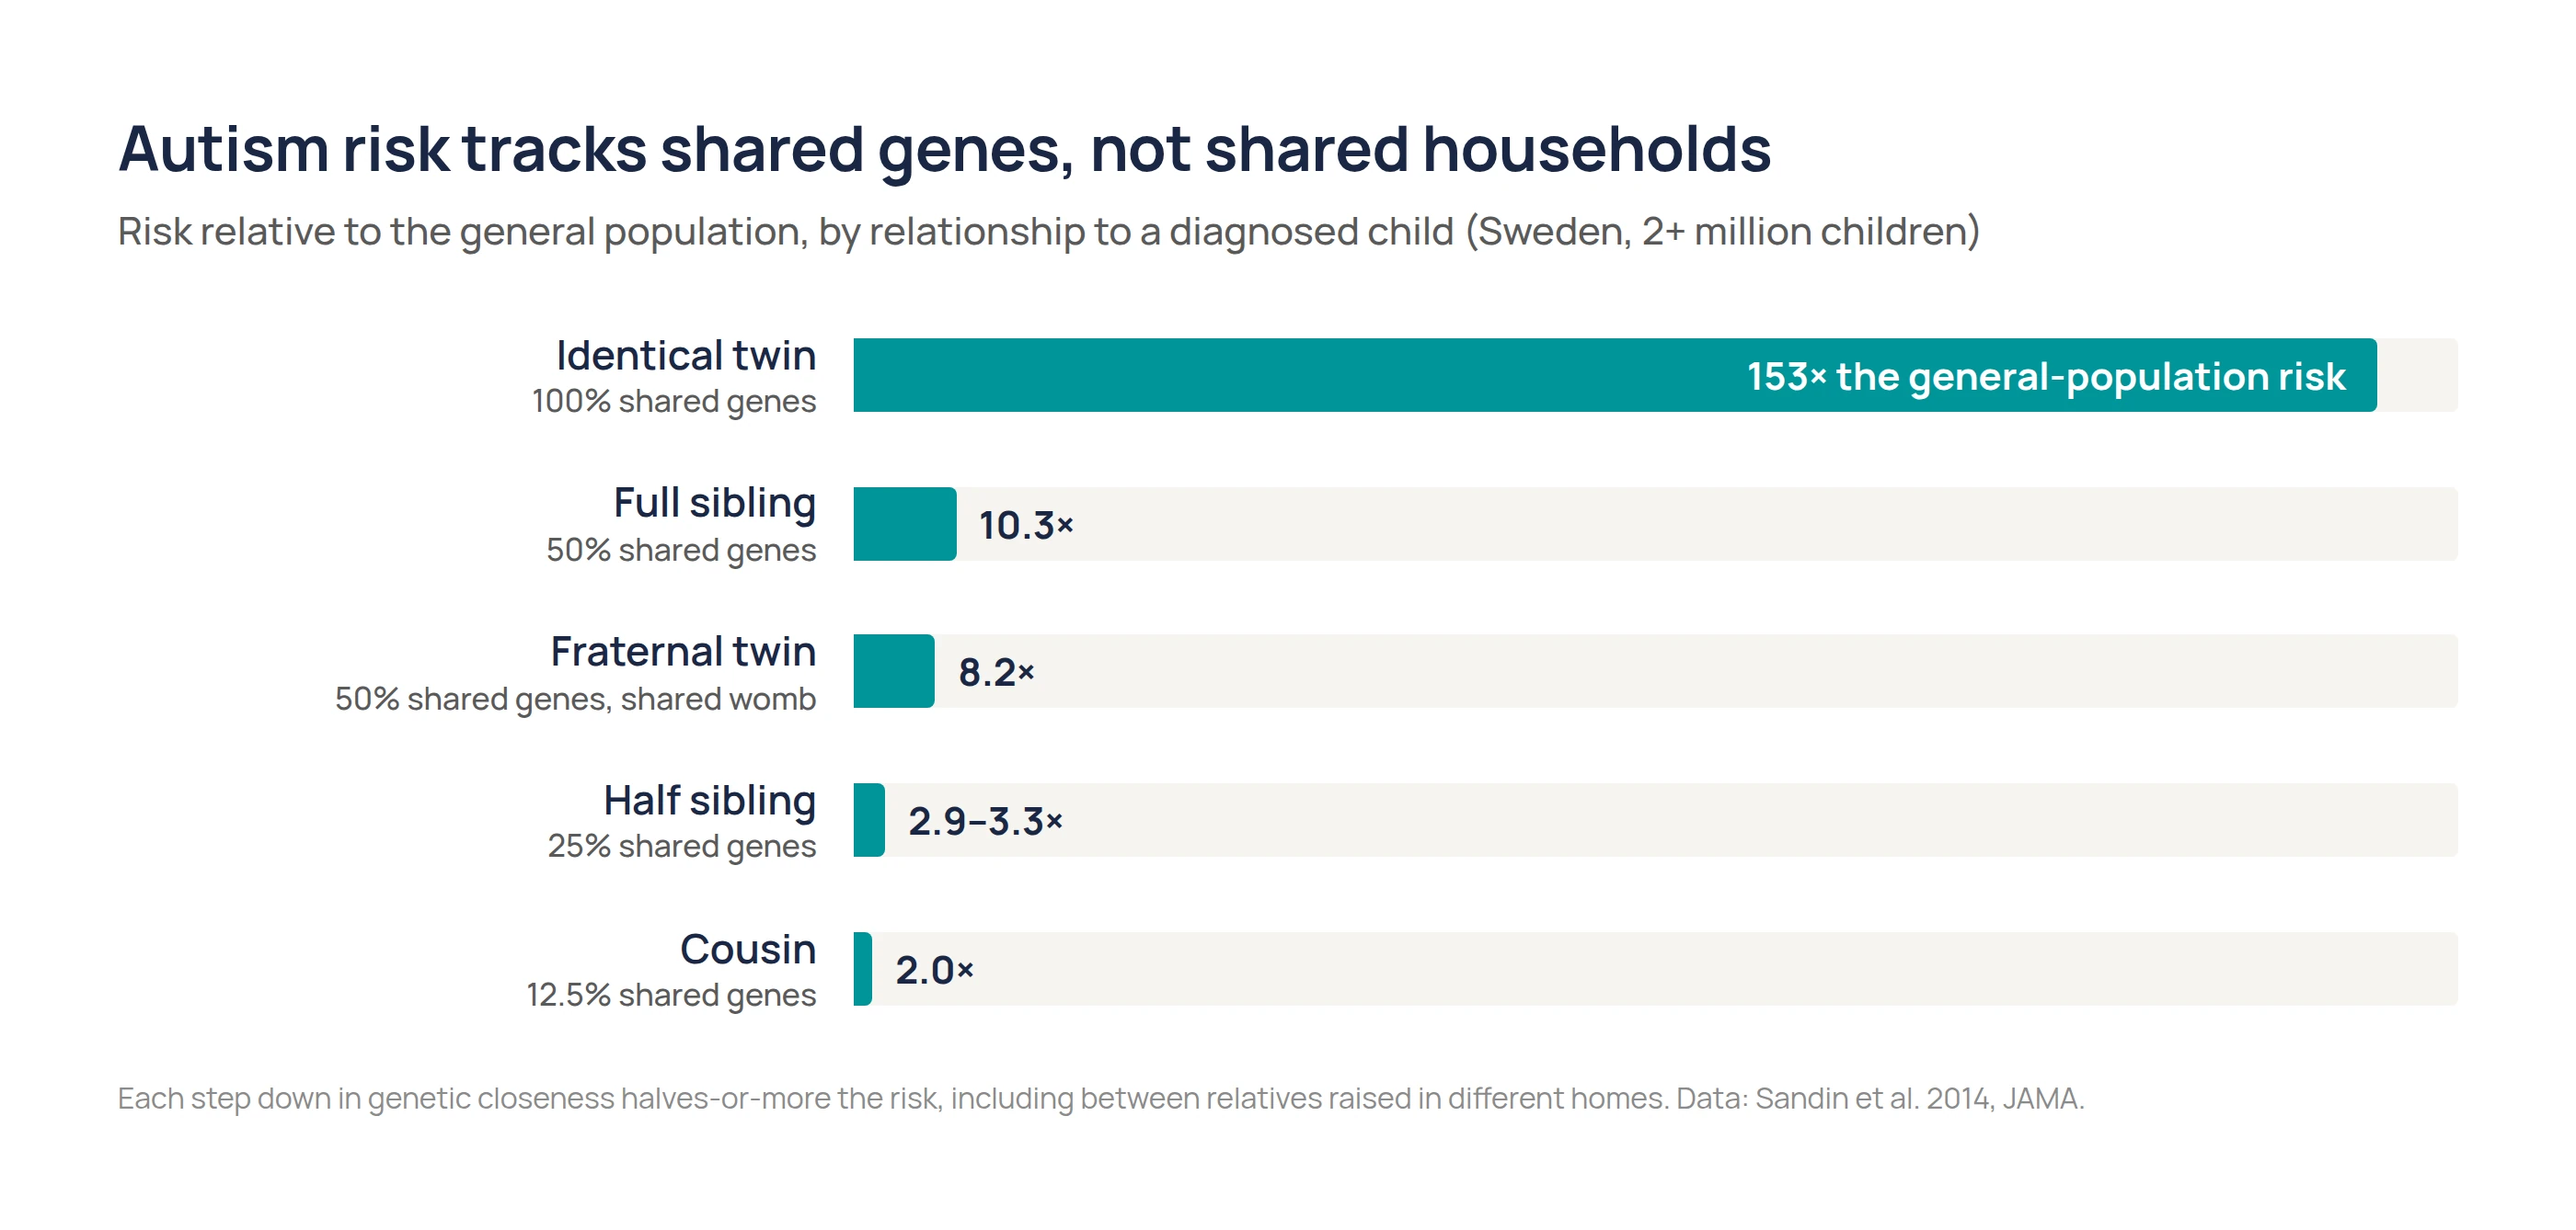
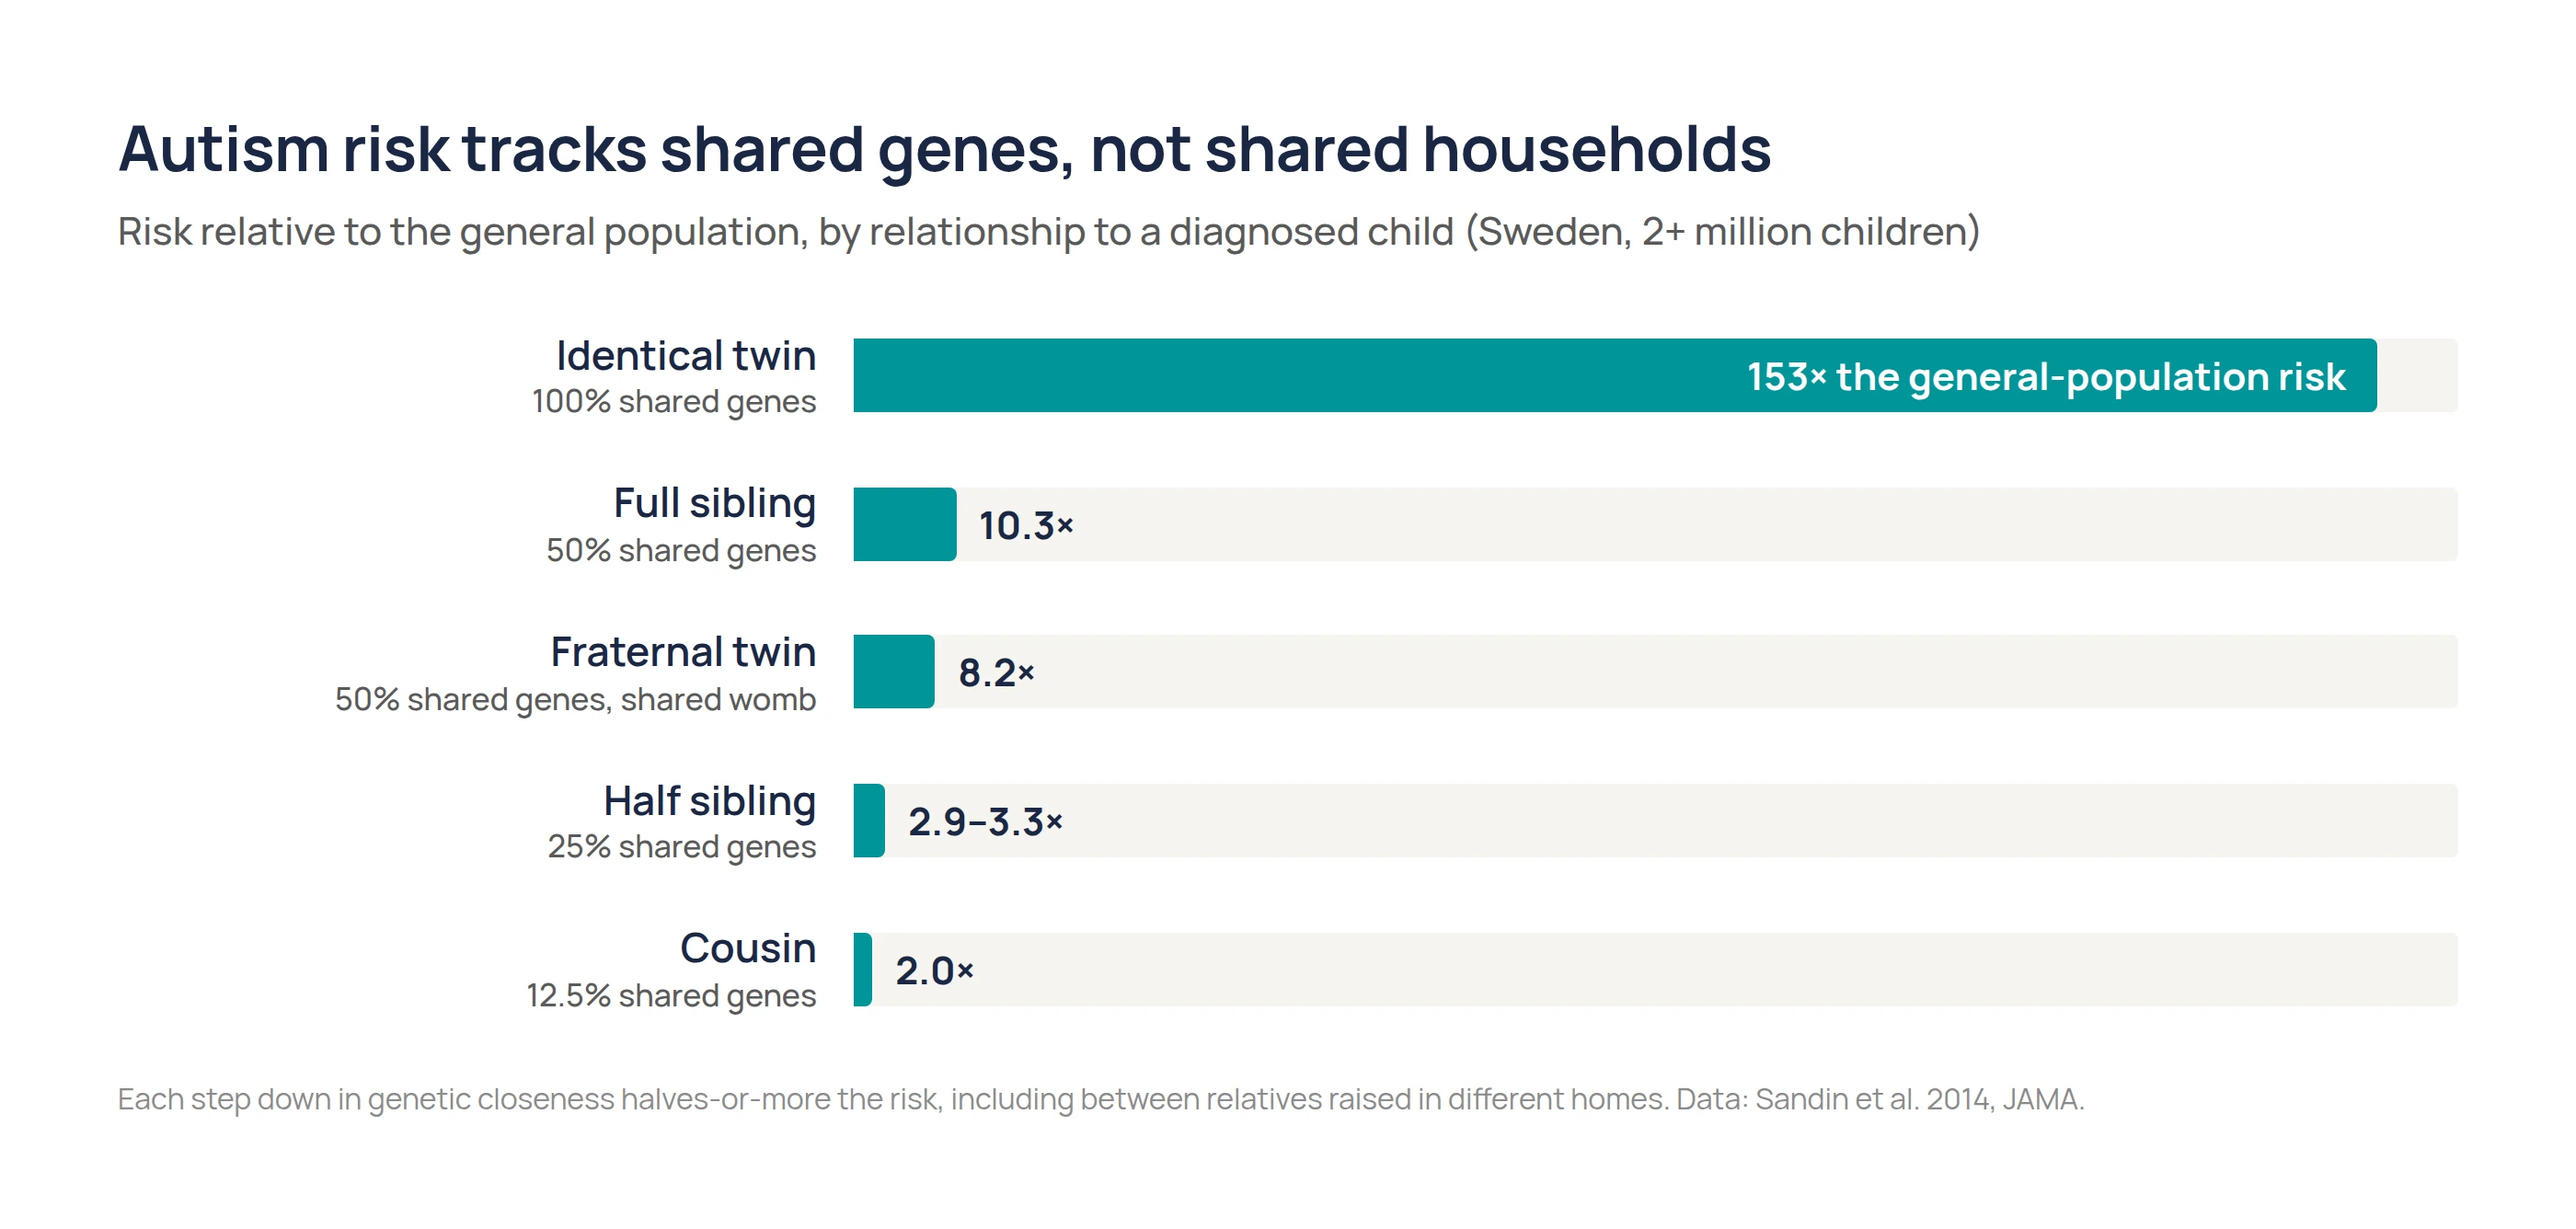
Ship the emotional-neglect rewrite with amended charts; bank final chart sources
Amend fig1 (third ~2-9% row + sums-to-100% note) and fig2 (fraternal label),
re-render the three webps, and record the production ship: assets uploaded and
byte-verified, article body rewritten with Tick 2016 and Sandin 2014 citations
and the three figures, item published, 18/18 live checks pass. Fixes the
Sandin PMID misattribution in the charts README.

Claude-Session: https://claude.ai/code/session_01ESdSdoUivG7GAzDwAHmNhg

diff --git a/content/blog/rewrites/charts/heritability-charts.html b/content/blog/rewrites/charts/heritability-charts.html
@@ -24,15 +24,18 @@
   <h2>What explains autism risk in twin studies</h2>
   <p class="sub">Range of estimates across six meta-analytic models of 13 twin studies (7,000+ pairs)</p>
   <div class="keyrow"><span><span class="sw" style="background:#009499"></span>Genetics</span>
-  <span><span class="sw" style="background:#c14a3f"></span>Shared family environment, including parenting</span></div>
+  <span><span class="sw" style="background:#c14a3f"></span>Shared family environment, including parenting</span><span><span class="sw" style="background:#9a9484"></span>Unique to one twin</span></div>
   <div class="row"><div class="lbl">Genetics<small>heritability</small></div>
     <div class="track"><div class="bar r" style="left:64%; width:27%; background:#009499"></div>
     <div class="val" style="left:92.5%">64&ndash;91%</div></div></div>
   <div class="row"><div class="lbl">Shared family environment<small>the home twins grow up in</small></div>
     <div class="track"><div class="bar r" style="left:7%; width:28%; background:#c14a3f"></div>
     <div class="val" style="left:37%">7&ndash;35%</div></div></div>
+  <div class="row"><div class="lbl">Unique to one twin<small>chance, illness, measurement error</small></div>
+    <div class="track"><div class="bar r" style="left:2%; width:7%; background:#9a9484"></div>
+    <div class="val" style="left:11%">~2&ndash;9%</div></div></div>
   <div class="axis"><div></div><div class="ticks"><span>0%</span><span>25%</span><span>50%</span><span>75%</span><span>100%</span></div></div>
-  <p class="credit">Data: Tick et al. 2016, Journal of Child Psychology and Psychiatry &mdash; meta-analysis of twin studies of autism. Ranges span the six meta-analytic models.</p>
+  <p class="credit">Data: Tick et al. 2016, Journal of Child Psychology and Psychiatry &mdash; meta-analysis of twin studies of autism. Ranges span the six meta-analytic models; within each model the three parts sum to 100%.</p>
 </div>
 
 <div class="fig" id="fig2">
@@ -41,7 +44,7 @@
   <div class="row"><div class="lbl">Identical twins<small>share ~100% of their genes</small></div>
     <div class="track"><div class="bar" style="left:0; width:98%; background:#009499"></div>
     <div class="val" style="left:99.5%; color:#1a2744">0.98</div></div></div>
-  <div class="row"><div class="lbl">Fraternal twins<small>share ~50%, same home</small></div>
+  <div class="row"><div class="lbl">Fraternal twins<small>share about half of the genes that vary, same home</small></div>
     <div class="track"><div class="bar" style="left:0; width:53%; background:#009499"></div>
     <div class="val" style="left:54.5%">0.53</div></div></div>
   <div class="axis"><div></div><div class="ticks"><span>0</span><span>0.25</span><span>0.50</span><span>0.75</span><span>1.0</span></div></div>

diff --git a/content/blog/rewrites/BUILD-RECORD-neglect-ship.md b/content/blog/rewrites/BUILD-RECORD-neglect-ship.md
@@ -1,0 +1,71 @@
+# Ship record: does-emotional-neglect-cause-autism rewrite + charts (2026-08-10)
+
+User-directed: "Can you update this article with the new graphics and the
+rewrite? Mcp connector readded."
+
+## Pre-flight
+
+- Webflow MCP re-verified post-reconnect: list_sites returned only
+  MasterMindBehavior.com (6627fd62e242d50407cfe12d, workspace
+  6633ca35cae5a217eec51194). The mid-session workspace switch is resolved.
+- Amended fig1/fig2 renders eyeballed before upload (third row present,
+  fraternal label correct).
+
+## Asset uploads
+
+create_asset x3 with local MD5s, S3 multipart POST (3x HTTP 201), then CDN
+fetch byte-verified: all three CDN md5s match local. Asset IDs and hashes in
+charts/README.md. Alt text set on all three assets.
+
+## CMS update
+
+Collection: Blog Posts 6627fd62e242d50407cfe157, item 66e7ec0089e32577d87461a5.
+
+Fields written:
+- name: "Does Emotional Neglect Cause Autism? No. Here's Why" (feeds H1 +
+  title tag; 51 chars, from rewrite front-matter)
+- post-summary: the 156-char meta description from front-matter
+- post-body: rewrite converted to rich-text HTML with the three figures
+
+Body deltas vs the rewrite markdown (all within agreed scope):
+- Added the agreed Tick et al. 2016 twin-meta paragraph (PMID 26709141) and a
+  Sandin et al. 2014 family-study paragraph (PMID 24794370) to carry figs 1-3;
+  Sources line extended with Tick and Sandin.
+- US spellings normalized (popularized, behaviors, behavioral, center).
+- The three front-matter internal links woven in: /post/how-to-prevent-autism
+  ("doesn't prevent autism"), /post/early-signs-of-autism-in-babies-and-kids
+  ("early evaluation"), /services ("in-home ABA therapy" in the support FAQ).
+
+Gates run on the generated body before write (all pass): no em/en dashes, no
+RBT, no "clinic" noun ("clinical interviews" in the historical Bettelheim
+paragraph is verbatim from the approved rewrite), no "2.5 times", no
+guarantees, exactly 3 figures on the Webflow CDN host with 3-20 word alt text,
+exactly the 4 intended PubMed links + 3 internal links, balanced tags.
+
+Item published via publish_collection_items (live-item publish; no site
+publish needed or run).
+
+## Post-ship verification (production URL, 18/18 pass)
+
+https://www.mastermindbehavior.com/post/does-emotional-neglect-cause-autism
+
+New opening/bold answer present; old "2.5 times" claim, old section headings
+and broken references TODO all gone; three figure images present; all four
+PubMed links and three internal links present; new title live; FAQ present; no
+em dashes in the body. Playwright screenshots confirm the new H1/standfirst,
+generic "Mastermind Behavior Clinical Team" byline, and fig1 rendering inline
+with the amended third row.
+
+Note: Webflow rewrote the figure srcs to CMS-ingested copies under
+cdn.prod.website-files.com/6627fd62e242d50407cfe155/6a7a3238..._<asset>_<name>
+on save. Expected rich-text behavior; the uploaded assets remain the canonical
+copies.
+
+Open observation (not in this change's scope): the global site header shows
+732.298.6624; the number used across Tier 1 work per instruction is
+732.813.7333. Possibly a call-tracking number. Flagged to the user.
+
+## Remaining for the other six rewrites
+
+Fold agreed PubMed additions into each md, then repeat this pipeline per
+article (no new charts unless requested).

diff --git a/content/blog/rewrites/charts/README.md b/content/blog/rewrites/charts/README.md
@@ -4,15 +4,33 @@ Three house-style charts, palette validated (dataviz six checks, teal #009499
 + coral #c14a3f on white), rendered at 2x from heritability-charts.html:
 
 1. autism-heritability-vs-environment-inline.webp - genetics 64-91% vs shared
-   family environment 7-35% (Tick et al. 2016, JCPP, PMID 26709141)
+   family environment 7-35% plus a third "Unique to one twin" row ~2-9%
+   (Tick et al. 2016, JCPP, PMID 26709141)
 2. twin-concordance-autism-inline.webp - identical 0.98 vs fraternal 0.53
    twin correlations (Tick et al. 2016)
 3. autism-risk-genetic-relatedness-inline.webp - relative risk by relatedness,
-   identical twin 153x to cousin 2.0x (Sandin et al. 2014, JAMA, PMID 24196715)
+   identical twin 153x to cousin 2.0x (Sandin et al. 2014, JAMA, PMID 24794370;
+   an earlier revision of this file misattributed PMID 24196715, which is
+   Jones & Klin 2013, Nature)
 
-NOT yet uploaded to Webflow: at upload time the MCP connection had switched to
-a different Webflow workspace (Chesed 24/7 / Kosher Mezuzah visible; the
-MasterMind site 404s). No writes were made against the wrong account. Once the
-connection is re-authorized to the MasterMind workspace: upload the three webps
-as assets, byte-verify the CDN, and wire them into the article with alt text
-and Data: credit lines before the CMS ship of the rewrite.
+Amendments after review (this revision): fig1 gained the third row (gray
+#9a9484) with legend key and a caption note that the three parts sum to 100%
+within each model; fig2's fraternal small-text now reads "share about half of
+the genes that vary, same home".
+
+## Shipped 2026-08-10
+
+Uploaded to the MasterMind Webflow site (6627fd62e242d50407cfe12d) after the
+MCP connector was re-authorized; CDN byte-verified against these local files:
+
+| file | md5 | asset id |
+|---|---|---|
+| autism-heritability-vs-environment-inline.webp | 78c83f4124cb411328e8763e473b4992 | 6a7a312d36c8b65f5fb5e728 |
+| twin-concordance-autism-inline.webp | ba6526c041dcdc105cfebaf9042b0bb7 | 6a7a312de18736ddd008b5ff |
+| autism-risk-genetic-relatedness-inline.webp | fe2e315c9fa90cc98aba285bf118a066 | 6a7a312dc165f7321b287b92 |
+
+Wired into the live article (Blog Posts item 66e7ec0089e32577d87461a5, slug
+does-emotional-neglect-cause-autism) as full-width rich-text figures with
+descriptive alt text; on save Webflow re-ingested the images under the CMS
+asset space (cfe155/6a7a3238... URLs), which is expected. See
+../BUILD-RECORD-neglect-ship.md for the full ship record.
